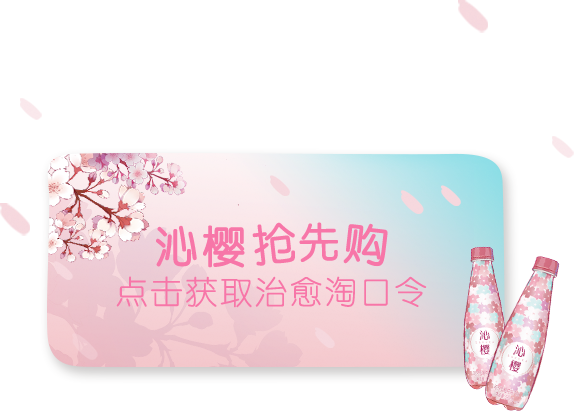
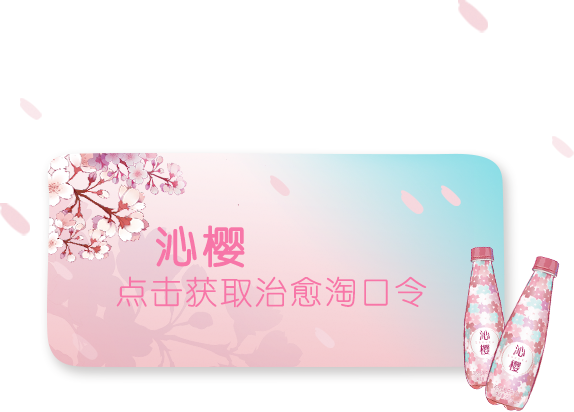
增加动画和视频

Changed region(s): [[0.4443, 0.5243, 0.6812, 0.6408]]

diff --git a/src/style/main.less b/src/style/main.less
@@ -165,6 +165,14 @@ body {
     z-index: 20000;
 }
 
+.button-play {
+    width: 528px;
+    height: 388px;
+    top: 470px;
+    left: 123px;
+    position: absolute;
+}
+
 .button-follow {
     width: 200px;
     height: 68px;
@@ -315,6 +323,40 @@ body {
     background-size: contain;
     background-repeat: no-repeat;
     display: none;
+
+    span {
+        display: block;
+        background-size: contain;
+        background-repeat: no-repeat;
+        position: absolute;
+
+        &.qiang {
+            width: 43px;
+            height: 44px;
+            background-image: url('../assets/img/h5/qiang.png');
+            top: 223px;
+            left: 253px;
+            animation: kf-shake 1000ms linear 250ms infinite;
+        }
+
+        &.xian {
+            width: 39px;
+            height: 40px;
+            background-image: url('../assets/img/h5/xian.png');
+            top: 223px;
+            left: 302px;
+            animation: kf-shake 1000ms linear 500ms infinite;
+        }
+
+        &.gou {
+            width: 45px;
+            height: 44px;
+            background-image: url('../assets/img/h5/gou.png');
+            top: 223px;
+            left: 344px;
+            animation: kf-shake 1000ms linear 750ms infinite;
+        }
+    }
 }
 
 .copy-finish {
@@ -329,6 +371,22 @@ body {
     display: none;
 }
 
+.sys-video {
+    position: fixed;
+    top: 0;
+    left: 0;
+    width: 100%;
+    height: 100%;
+    z-index: 20010;
+    background-color: #000;
+    display: none;
+
+    video {
+        width: 100%;
+        height: 100%;
+    }
+}
+
 @keyframes kf-show {
     0% { transform: scale(1); }
     30% { transform: scale(0.95); }
@@ -340,4 +398,11 @@ body {
 @keyframes kf-rotate {
     from { transform: rotate(0deg); }
     to { transform: rotate(360deg); }
+}
+
+@keyframes kf-shake {
+    0% { transform: rotate(0deg); }
+    25% { transform: rotate(-10deg); }
+    75% { transform: rotate(10deg); }
+    100% { transform: rotate(0deg); }
 }

diff --git a/src/js/app/loader.js b/src/js/app/loader.js
@@ -24,6 +24,7 @@ define([
 
         var source = [
             { 'src': 'main/landscape.png' },
+            { 'src': 'loading/bg.jpg' },
             { 'src': 'loading/bg.png' },
             { 'src': 'loading/middle.png' },
             { 'src': 'loading/text.png' }
@@ -52,15 +53,27 @@ define([
                 { 'src': 'h5/copy-finish.png' },
                 { 'src': 'h5/copy.png' },
                 { 'src': 'h5/flower.png' },
+                { 'src': 'h5/gou.png' },
                 { 'src': 'h5/KV-product.png' },
                 { 'src': 'h5/KV-slogan.png' },
                 { 'src': 'h5/photo.png' },
                 { 'src': 'h5/product-group.png' },
                 { 'src': 'h5/product.png' },
+                { 'src': 'h5/qiang.png' },
                 { 'src': 'h5/qr.png' },
                 { 'src': 'h5/text-1.png' },
                 { 'src': 'h5/text-2.png' },
-                { 'src': 'h5/text-3.png' }
+                { 'src': 'h5/text-3.png' },
+                { 'src': 'h5/xian.png' },
+
+                { 'src': 'icon/icon_petal_1.png' },
+                { 'src': 'icon/icon_petal_2.png' },
+                { 'src': 'icon/icon_petal_3.png' },
+                { 'src': 'icon/icon_petal_4.png' },
+                { 'src': 'icon/icon_petal_5.png' },
+                { 'src': 'icon/icon_petal_6.png' },
+                { 'src': 'icon/icon_petal_7.png' },
+                { 'src': 'icon/icon_petal_8.png' }
             ];
 
             loader.on('progress', onProgress);

diff --git a/src/js/app/script.js b/src/js/app/script.js
@@ -9,12 +9,13 @@ define([
     'share',
     'utils/frameplayer',
     'music',
+    'video',
     'text!../views/block.html!strip',
     'text!../views/index.html!strip',
     'jquery.transit',
     'jquery.hammer'
 ],
-($, utils, loader, scrollreveal, Clipboard, share, frameplayer, music, htmlBlock, htmlIndex) => {
+($, utils, loader, scrollreveal, Clipboard, share, frameplayer, music, video, htmlBlock, htmlIndex) => {
     return () => {
         // 加载jquery插件
         utils.jqueryPlugins();
@@ -26,6 +27,9 @@ define([
             $('body').append(htmlIndex).addClass('bg');
 
             music(true);
+            // video($('.button-play'), () => {
+            //     console.log('OKOKOK');
+            // });
 
             // share
             share({
@@ -53,24 +57,6 @@ define([
                     // console.log(frame);
                 }
             }).play();
-
-            // 临时逐帧动画
-            // let i = 0;
-            // setInterval(() => {
-            //     let name = i * 4;
-            //     let x = '';
-
-            //     for (let j = 0; j < 5 - (name + '').length; j++) {
-            //         x += '0';
-            //     }
-
-            //     name = x + name;
-            //     i++;
-
-            //     if (i > 22) { i = 0; }
-
-            //     $('.kv-animation').css('background-image', 'url("./assets/img/frame/kv_' + name + '.png")');
-            // }, 1000 / 6);
 
             // l
             const sr = scrollreveal({

diff --git a/src/js/app/video.js b/src/js/app/video.js
@@ -1,0 +1,41 @@
+define([
+    'jquery',
+    'text!../views/video.html!strip',
+    'jquery.hammer'],
+($, htmlVideo) => {
+    return (button, callback) => {
+        $('body').append(htmlVideo);
+
+        // 视频绑定
+        var video = $('.sys-video video');
+        button.hammer().on('tap', () => {
+            $('.sys-video').show();
+            $('audio')[0].pause();
+            $('.block').css('z-index', '-1');
+
+            var vid = ['2EC1EE594D2A5F8E9C33DC5901307461', '5DE2D95ADDDA73A49C33DC5901307461'];
+            $.get('https://www.canon.com.cn/video/invoking/m/getMobile?vid=' + vid[0], (json) => {
+                // 设置视频地址
+                video.attr('src', json.value[0].copy);
+                video[0].play();
+            }, 'jsonp');
+        });
+
+        video.on('timeupdate', () => {
+            // 视频结束前1秒执行
+            if (video[0].duration > 0 && video[0].currentTime > video[0].duration - 1) {
+                video[0].pause();
+                $('audio')[0].play();
+                callback();
+            }
+        });
+
+        video.on('pause', () => {
+            $('.sys-video').hide();
+            $('.block').css('z-index', '9999');
+            video[0].pause();
+            $('audio')[0].play();
+            callback();
+        });
+    };
+});

diff --git a/src/views/index.html b/src/views/index.html
@@ -10,9 +10,12 @@
             <div class="kv-animation"></div>
             <div class="kv-product"></div>
             <div class="kv-slogan"></div>
-            <div class="photo"></div>
+            <div class="photo">
+                
+            </div>
             <div class="text1"></div>
             <div class="button">
+                    <div class="button-play"></div>
                 <div class="button-follow"></div>
                 <div class="button-buy"></div>
             </div>
@@ -27,7 +30,11 @@
         <div class="mask"></div>
         <div class="tools">
             <div class="qr"><img src="./assets/img/h5/qr.png" alt=""></div>
-            <div class="copy" data-clipboard-text="123456123123"></div>
+            <div class="copy" data-clipboard-text="【我剁手都要买的宝贝（延中沁樱 可乐型樱花味汽水饮料330mlx12瓶/箱），快来和我一起瓜分红I包】，复制这条信息￥Z29M0KUSmxX￥后打开手淘">
+                <span class="qiang"></span>
+                <span class="xian"></span>
+                <span class="gou"></span>
+            </div>
             <div class="copy-finish"></div>
         </div>
     </body>

diff --git a/src/views/video.html b/src/views/video.html
@@ -1,0 +1,14 @@
+<!DOCTYPE html>
+<html lang="en">
+<head>
+    <meta charset="UTF-8">
+    <meta name="viewport" content="width=device-width, initial-scale=1.0">
+    <meta http-equiv="X-UA-Compatible" content="ie=edge">
+    <title>Document</title>
+</head>
+<body>
+    <div class="sys-video">
+        <video x-webkit-airplay="allow" x5-video-orientation="landscape" x5-video-player-type="h5" x5-video-player-fullscreen="true" controls="controls">您的浏览器不支持html5 video</video>
+    </div>
+</body>
+</html>

diff --git a/src/js/lib/requirejs/require.config.js b/src/js/lib/requirejs/require.config.js
@@ -87,7 +87,8 @@
         'script': 'app/script',
         'loader': 'app/loader',
         'share': 'app/share',
-        'music': 'app/music'
+        'music': 'app/music',
+        'video': 'app/video'
 
         // 'swiper': 'lib/swiper/swiper-3.4.2.jquery.min',
 
